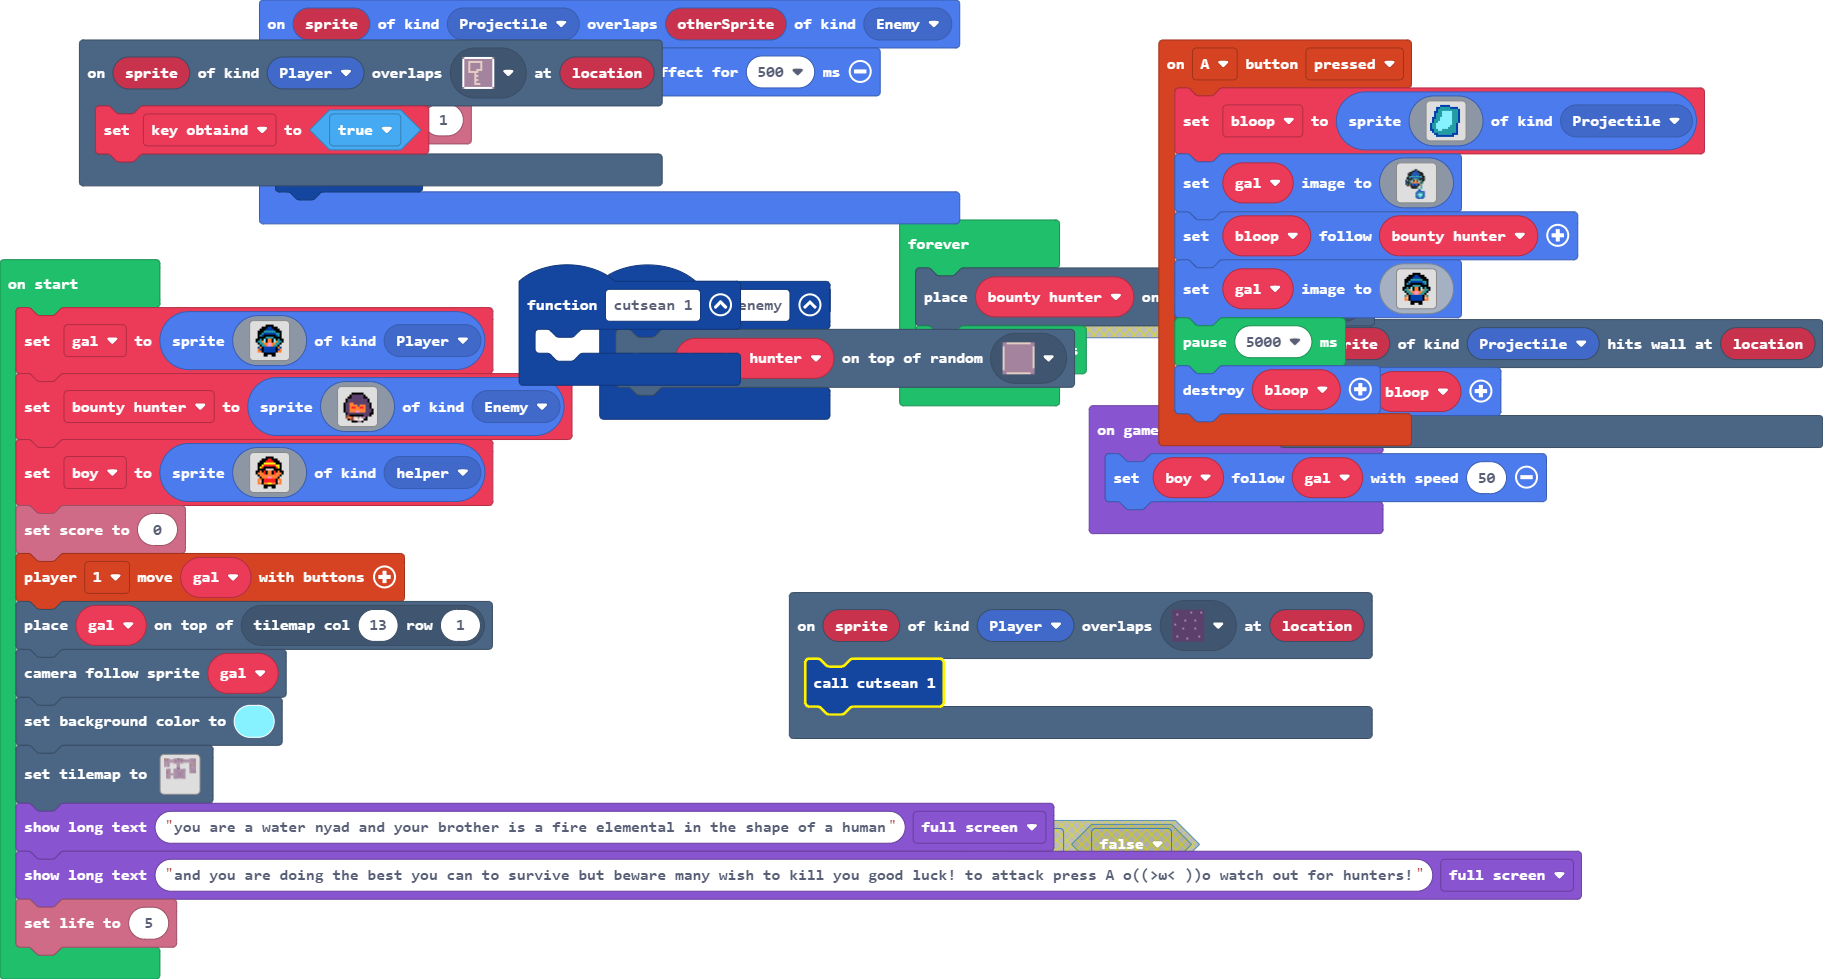
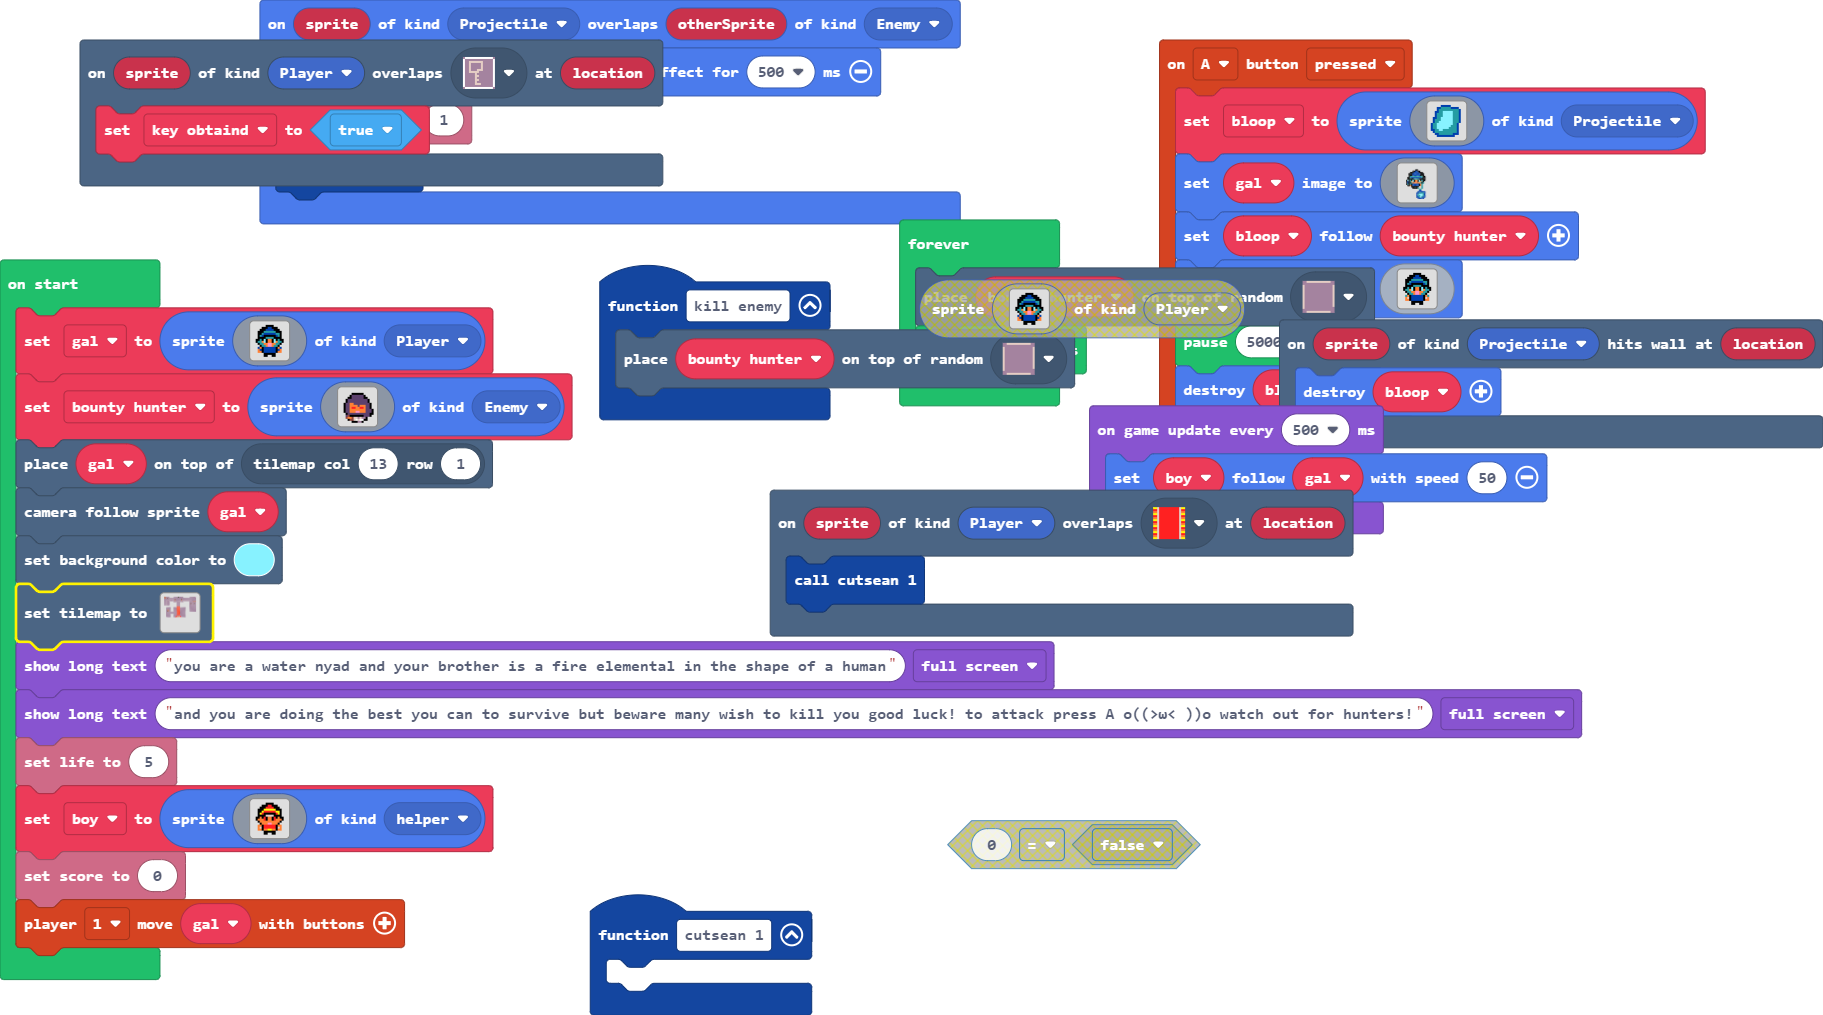
i made a throne room

diff --git a/main.ts b/main.ts
@@ -72,12 +72,12 @@ controller.A.onEvent(ControllerButtonEvent.Pressed, function () {
     pause(5000)
     bloop.destroy()
 })
-scene.onOverlapTile(SpriteKind.Player, sprites.dungeon.darkGroundCenter, function (sprite, location) {
-    cutsean_1()
-})
 function kill_enemy () {
     tiles.placeOnRandomTile(bounty_hunter, myTiles.tile4)
 }
+scene.onOverlapTile(SpriteKind.Player, myTiles.tile6, function (sprite, location) {
+    cutsean_1()
+})
 scene.onHitWall(SpriteKind.Projectile, function (sprite, location) {
     bloop.destroy()
 })
@@ -129,30 +129,10 @@ bounty_hunter = sprites.create(img`
     . . . f e e d 1 d 1 1 f f . . . 
     . . . . . f f f b b f . . . . . 
     `, SpriteKind.Enemy)
-let boy = sprites.create(img`
-    . . . . . . f f f f . . . . . . 
-    . . . . f f f 2 2 f f f . . . . 
-    . . . f f f 2 2 2 2 f f f . . . 
-    . . f f f 5 5 5 5 5 5 f f f . . 
-    . . f f 5 2 2 2 2 2 2 5 5 f . . 
-    . . f 5 2 f f f f f f 2 5 f . . 
-    . . f f f f d d d d f f f f . . 
-    . f f 4 f 2 f 4 4 f 2 f 4 f f . 
-    . f 4 4 4 2 f 4 4 f 2 4 4 4 f . 
-    . . f 4 4 4 4 4 4 4 4 4 4 f . . 
-    . . . f 4 4 4 3 3 4 4 4 f . . . 
-    . . 4 4 f 2 2 2 2 2 2 f 4 4 . . 
-    . . 4 d f 2 2 2 2 2 2 f d 4 . . 
-    . . 4 4 f 4 4 5 5 4 4 f 4 4 . . 
-    . . . . . f f f f f f . . . . . 
-    . . . . . f f . . f f . . . . . 
-    `, SpriteKind.helper)
-info.setScore(0)
-controller.player1.moveSprite(gal)
 tiles.placeOnTile(gal, tiles.getTileLocation(13, 1))
 scene.cameraFollowSprite(gal)
 scene.setBackgroundColor(9)
[2 lines of base64/hex data omitted]
     22...2222.........222222......
     22.2..........................
     ..........2.....2.............
@@ -183,10 +163,30 @@ tiles.setTilemap(tiles.createTilemap(hex`1e001e000202010101000000000101010104010
     ..............................
     ..............................
     ..............................
-    `, [myTiles.transparency16,sprites.dungeon.floorDark2,myTiles.tile1,myTiles.tile2,myTiles.tile3,sprites.dungeon.darkGroundCenter,myTiles.tile4,myTiles.tile5], TileScale.Sixteen))
+    `, [myTiles.transparency16,sprites.dungeon.floorDark2,myTiles.tile1,myTiles.tile2,myTiles.tile3,myTiles.tile4,myTiles.tile5,myTiles.tile6,myTiles.tile7,myTiles.tile8,myTiles.tile9,myTiles.tile10], TileScale.Sixteen))
 game.showLongText("you are a water nyad and your brother is a fire elemental in the shape of a human", DialogLayout.Full)
 game.showLongText("and you are doing the best you can to survive but beware many wish to kill you good luck! to attack press A o((>ω< ))o watch out for hunters!", DialogLayout.Full)
 info.setLife(5)
+let boy = sprites.create(img`
+    . . . . . . f f f f . . . . . . 
+    . . . . f f f 2 2 f f f . . . . 
+    . . . f f f 2 2 2 2 f f f . . . 
+    . . f f f 5 5 5 5 5 5 f f f . . 
+    . . f f 5 2 2 2 2 2 2 5 5 f . . 
+    . . f 5 2 f f f f f f 2 5 f . . 
+    . . f f f f d d d d f f f f . . 
+    . f f 4 f 2 f 4 4 f 2 f 4 f f . 
+    . f 4 4 4 2 f 4 4 f 2 4 4 4 f . 
+    . . f 4 4 4 4 4 4 4 4 4 4 f . . 
+    . . . f 4 4 4 3 3 4 4 4 f . . . 
+    . . 4 4 f 2 2 2 2 2 2 f 4 4 . . 
+    . . 4 d f 2 2 2 2 2 2 f d 4 . . 
+    . . 4 4 f 4 4 5 5 4 4 f 4 4 . . 
+    . . . . . f f f f f f . . . . . 
+    . . . . . f f . . f f . . . . . 
+    `, SpriteKind.helper)
+info.setScore(0)
+controller.player1.moveSprite(gal)
 forever(function () {
     tiles.placeOnRandomTile(bounty_hunter, myTiles.tile4)
     pause(5000)

diff --git a/tilemap.g.ts b/tilemap.g.ts
@@ -12,6 +12,16 @@ namespace myTiles {
     export const tile4 = image.ofBuffer(hex``);
     //% fixedInstance jres blockIdentity=images._tile
     export const tile5 = image.ofBuffer(hex``);
+    //% fixedInstance jres blockIdentity=images._tile
+    export const tile6 = image.ofBuffer(hex``);
+    //% fixedInstance jres blockIdentity=images._tile
+    export const tile7 = image.ofBuffer(hex``);
+    //% fixedInstance jres blockIdentity=images._tile
+    export const tile8 = image.ofBuffer(hex``);
+    //% fixedInstance jres blockIdentity=images._tile
+    export const tile9 = image.ofBuffer(hex``);
+    //% fixedInstance jres blockIdentity=images._tile
+    export const tile10 = image.ofBuffer(hex``);
 
 }
 // Auto-generated code. Do not edit.
